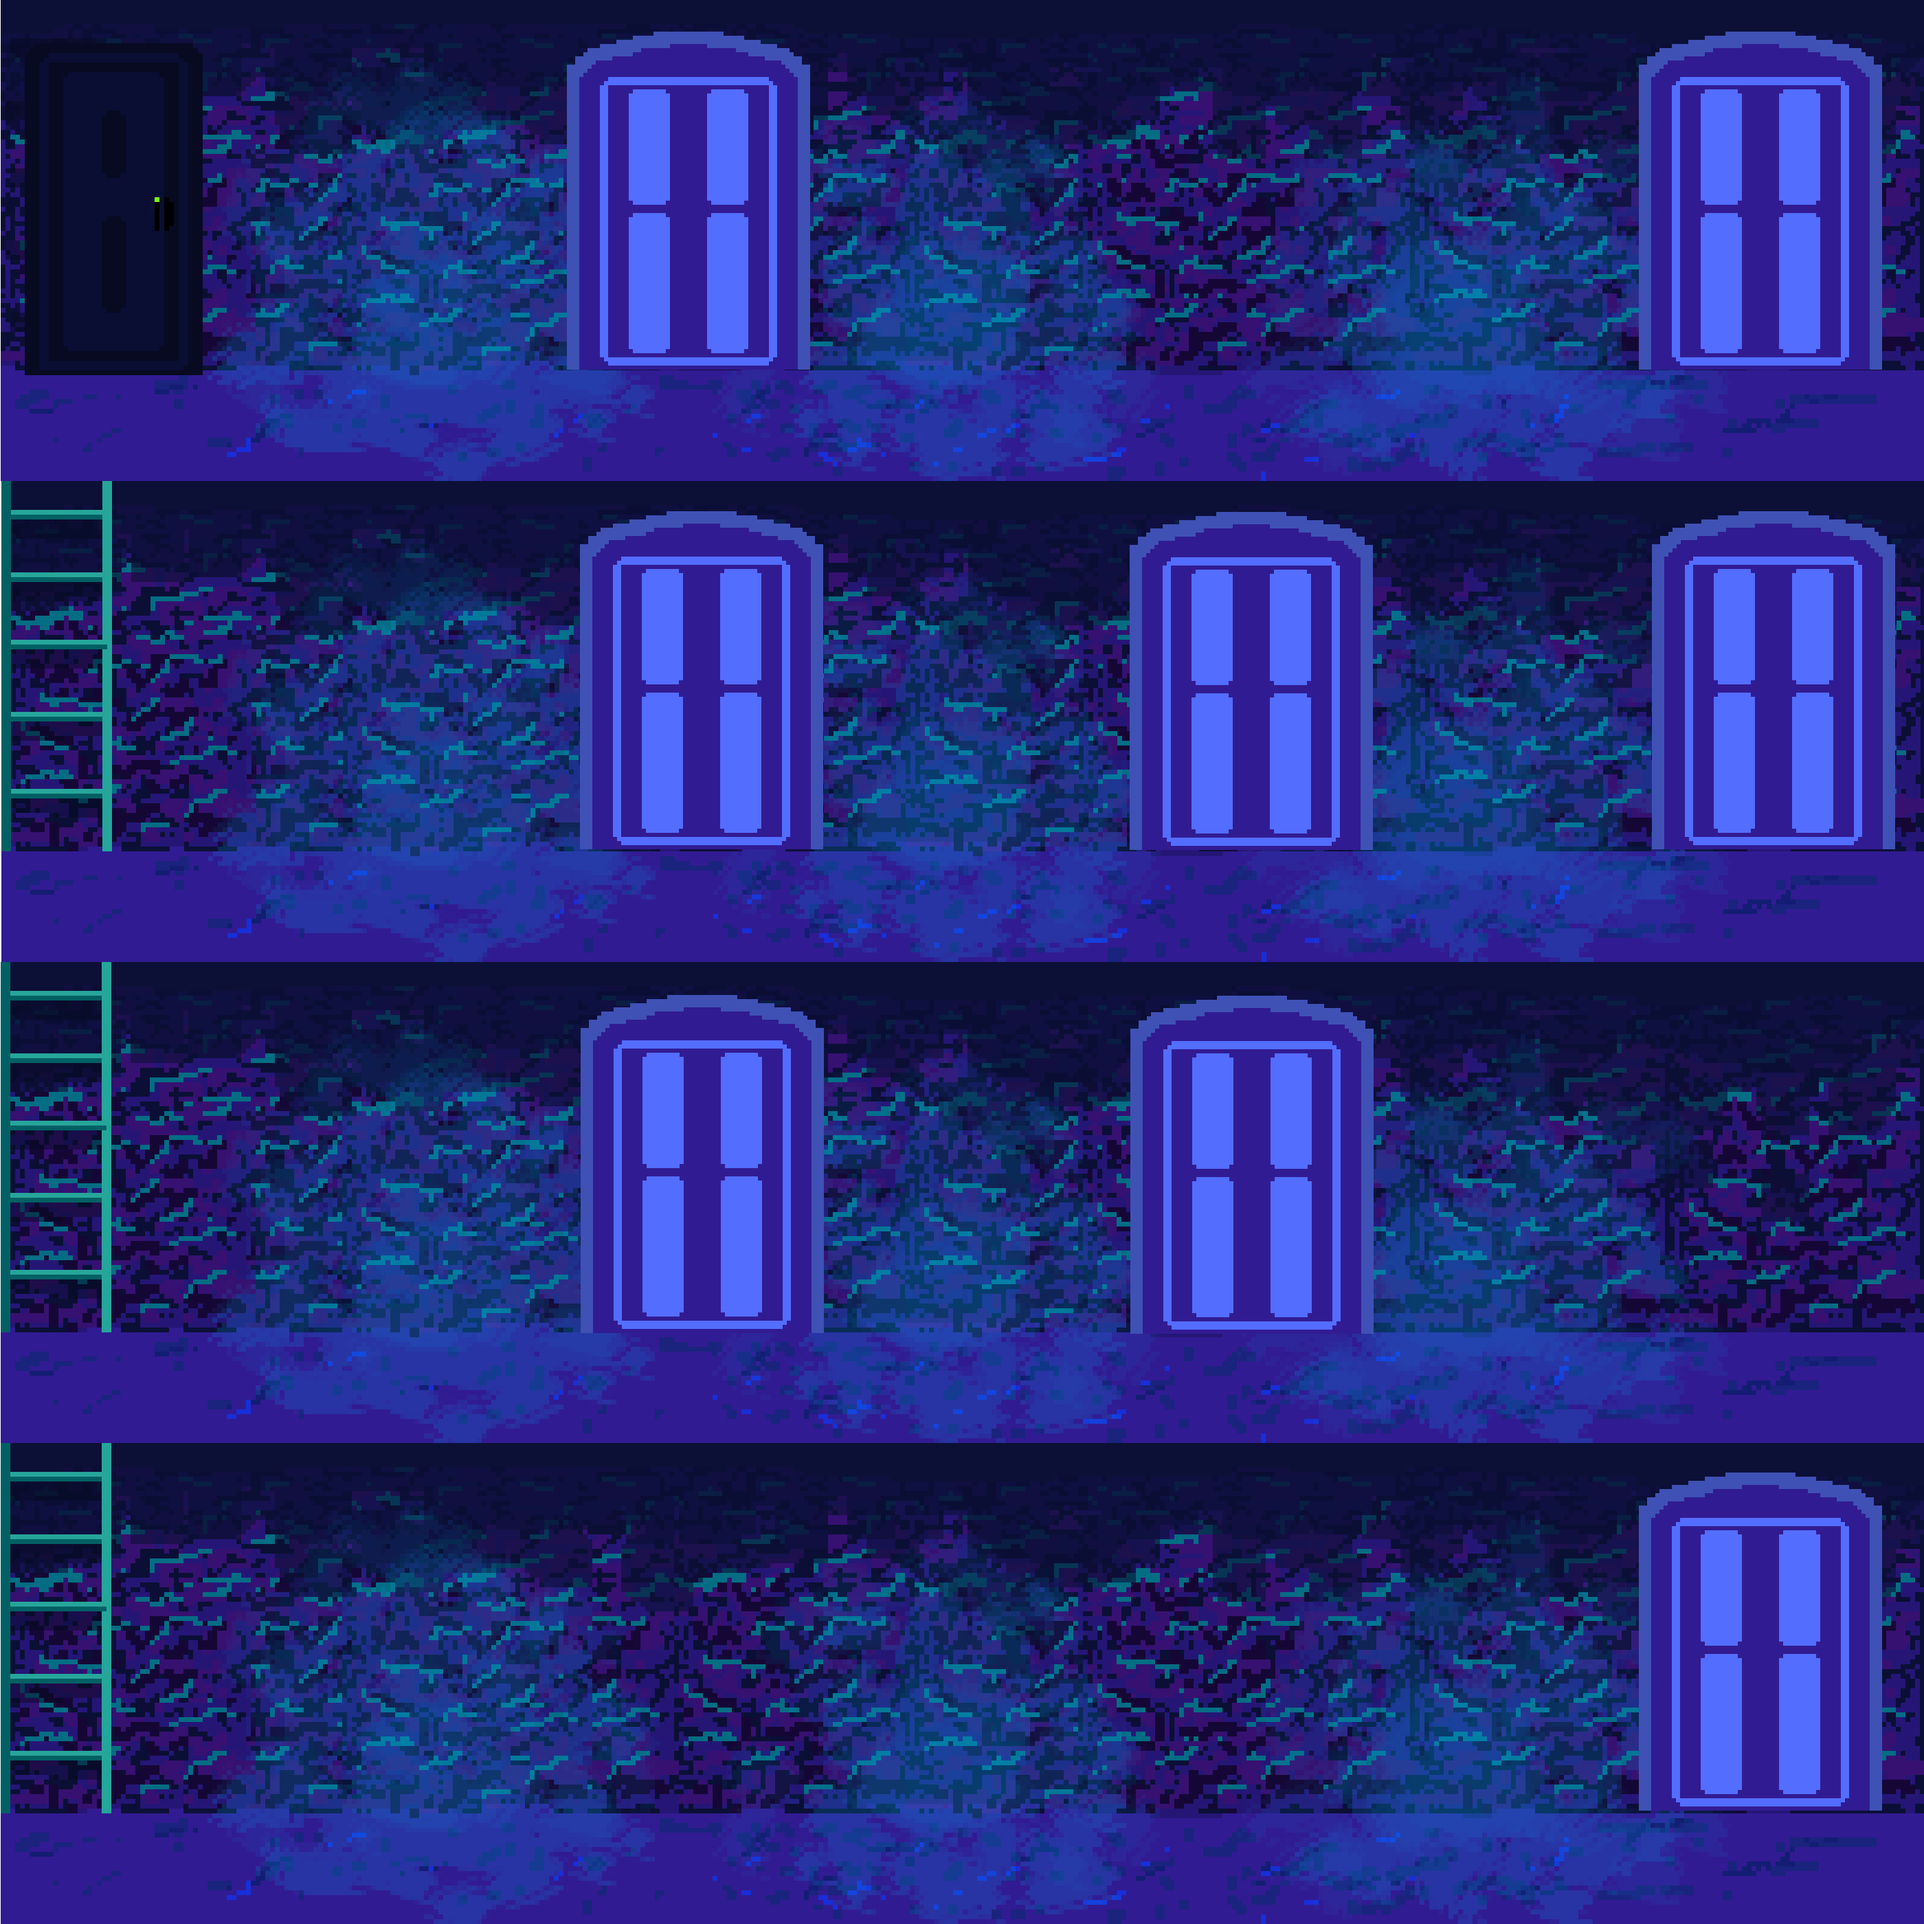
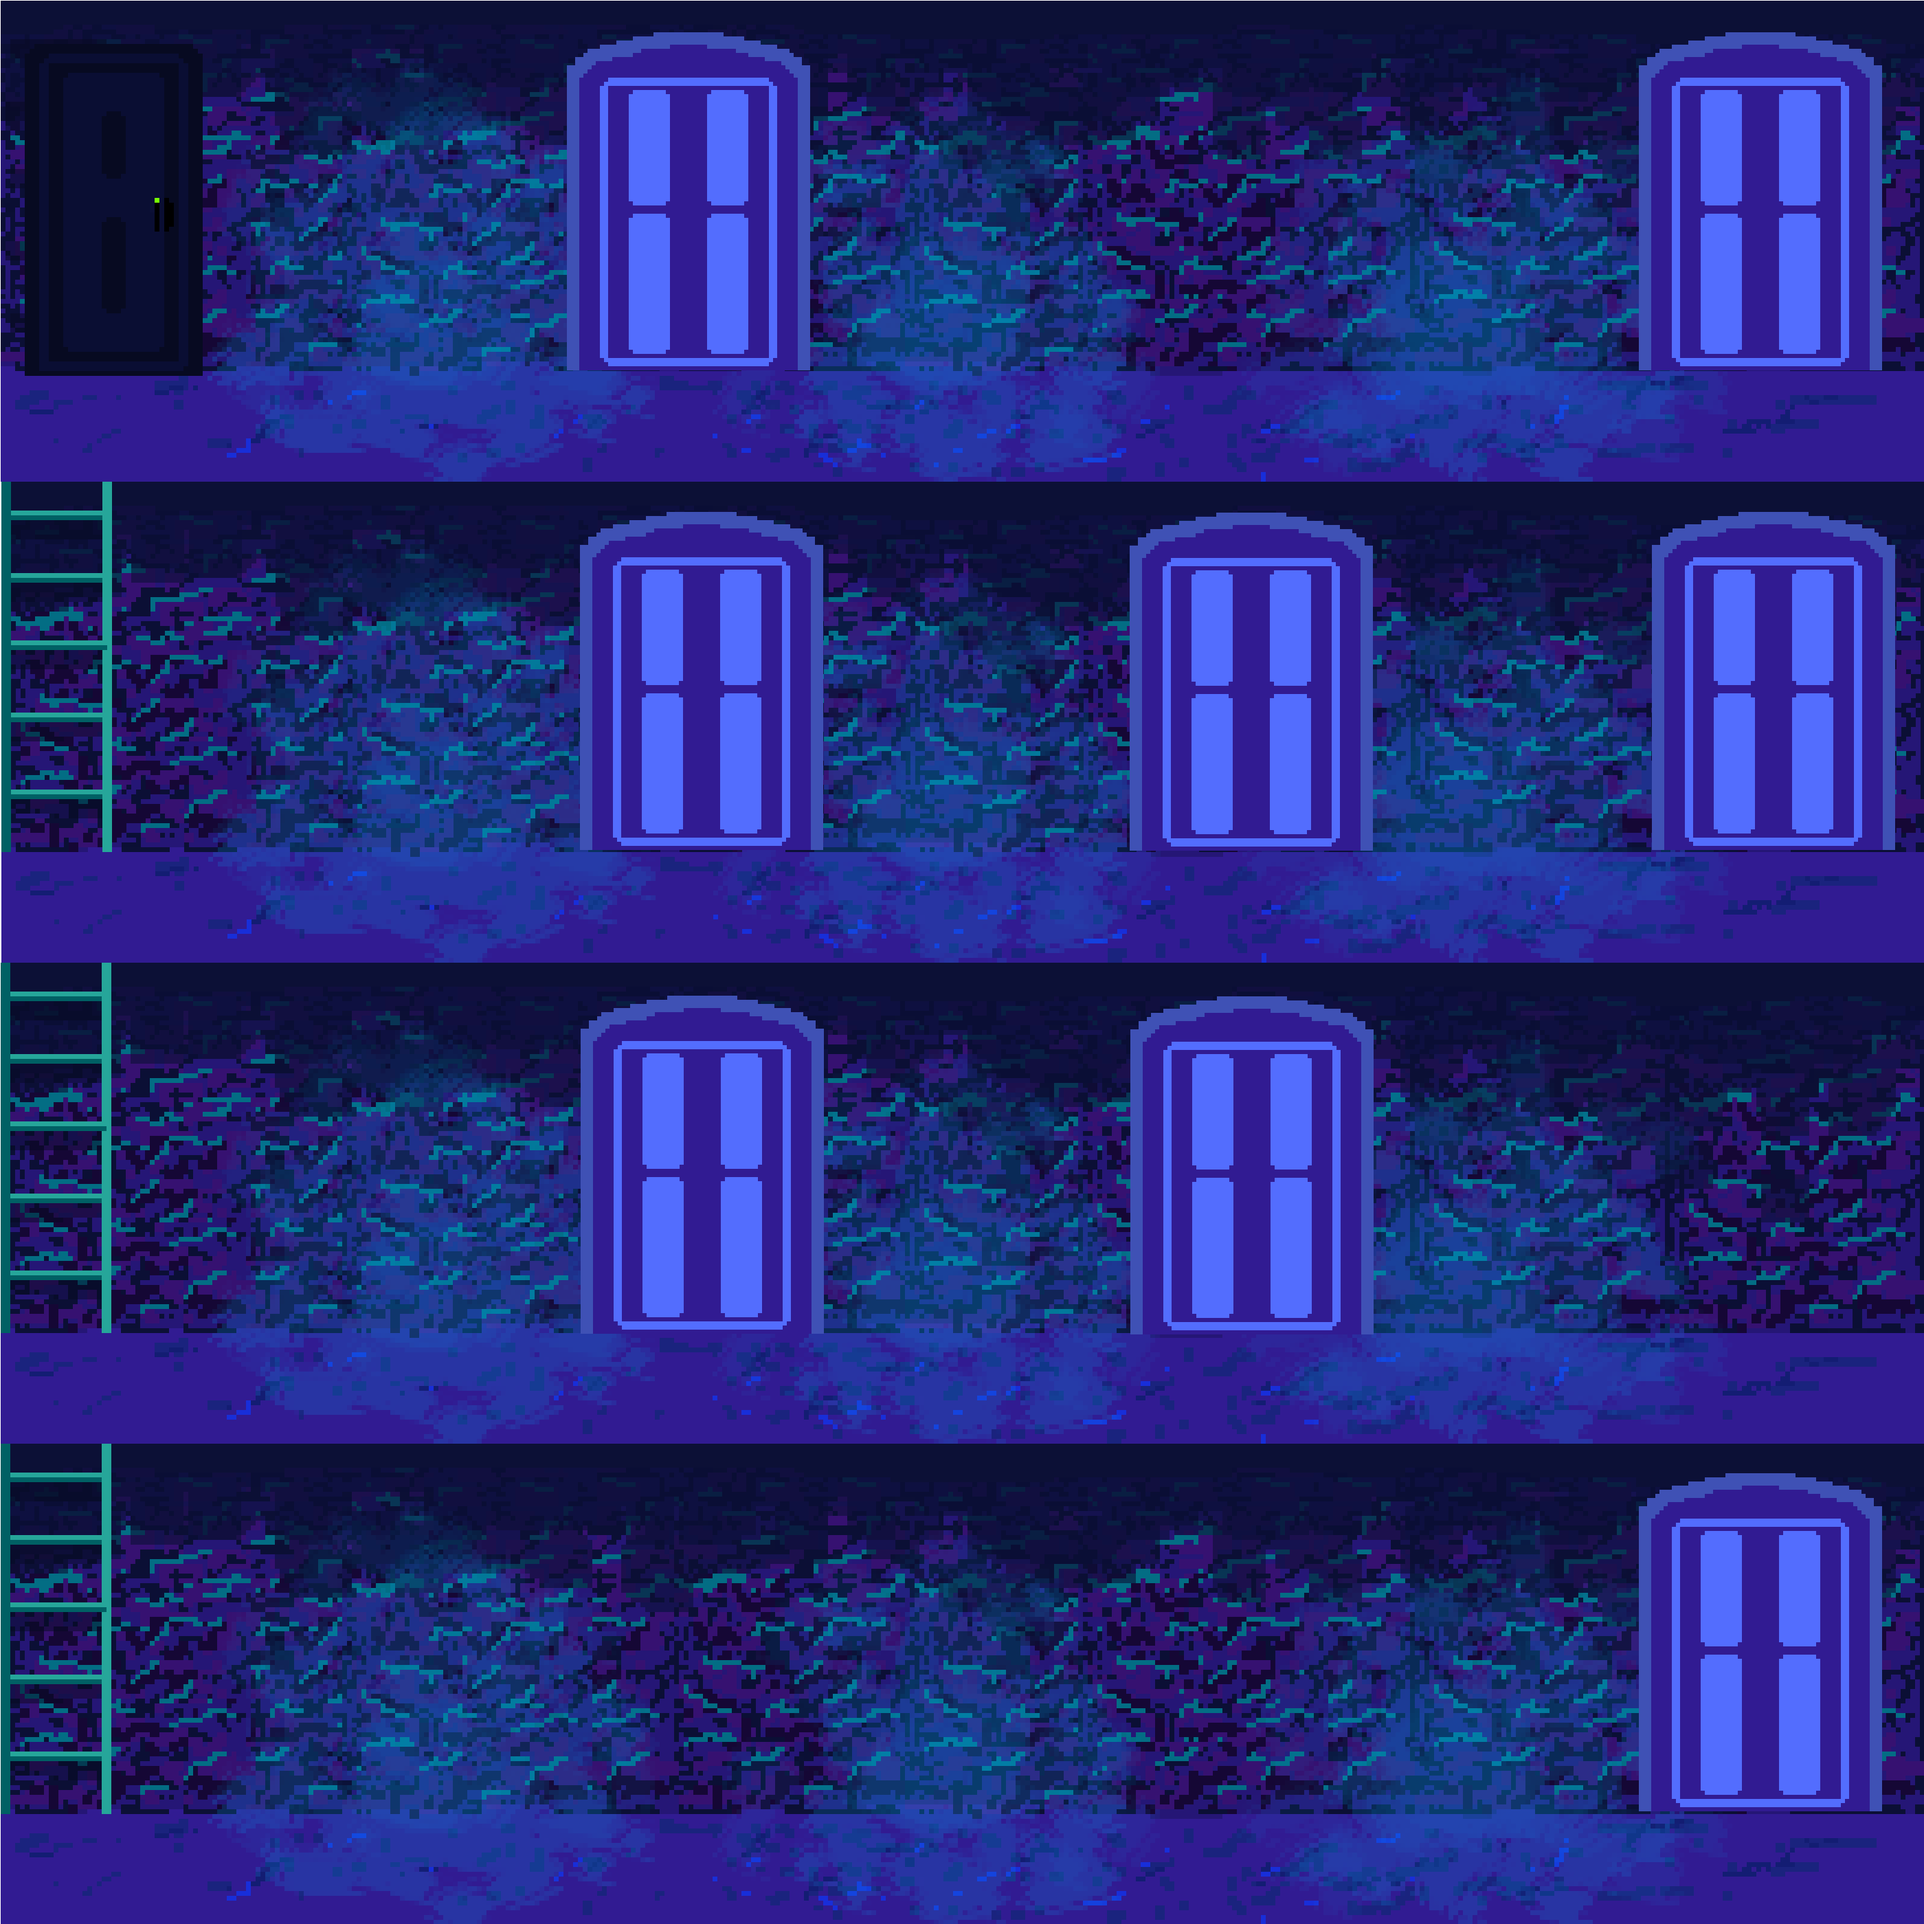
Adds corridor_mask and corridor movement

diff --git a/ESCAPE/sprites/hero_sprite.py b/ESCAPE/sprites/hero_sprite.py
@@ -1,33 +1,56 @@
 import pygame
-
 from ESCAPE.core.base_sprite import BaseSprite
 
 
 class HeroSprite(BaseSprite):
-    def __init__(self, game, x, y, size=None, angle=0):
+    def __init__(self, game, x, y, size=None):
         images = ['images/hero.png']
         # TODO numerous pictures of a hero and a standalone directory
-        # TODO handel events
-        super().__init__(game, images, x, y, size, angle=90)
+        # TODO handle events
+
+        super().__init__(game, images, x, y, size)
+        self.rect = self.image.get_rect()
+        self.mask = pygame.mask.from_surface(self.image)
+        self.rect.x = x
+        self.rect.y = y
+        self.pos = (x, y)
+        self.last_move = None
+        self.step = 10
         self.add(game.hero_group)
         self.anim_fps = 10
-        self.pos = (x, y)
+        pygame.key.set_repeat(10)
 
     def get_event(self, event):
-        step = 10
+        step = self.step
         if event.type == pygame.KEYDOWN:
             x, y = self.rect.x, self.rect.y
             new_x, new_y = x, y
             if event.key == pygame.K_RIGHT:
                 new_x, new_y = x + step, y
+                self.last_move = 'right'
             if event.key == pygame.K_LEFT:
                 new_x, new_y = x - step, y
+                self.last_move = 'left'
             if event.key == pygame.K_UP:
                 new_x, new_y = x, y - step
+                self.last_move = 'up'
             if event.key == pygame.K_DOWN:
                 new_x, new_y = x, y + step
-            if 650 < new_x and 150 < y < 300:
-                self.game.stop()
-            if self.game.screen_img.check(new_x + 80, new_y + 50):
-                self.rect.x, self.rect.y = new_x, new_y
-                self.pos = (new_x, new_y)
+                self.last_move = 'down'
+            self.rect.x, self.rect.y = new_x, new_y
+            self.pos = (new_x, new_y)
+
+    def anti_move(self):
+        step = self.step
+        x, y = self.rect.x, self.rect.y
+        new_x, new_y = x, y
+        if self.last_move == 'right':
+            new_x, new_y = x - step, y
+        if self.last_move == 'left':
+            new_x, new_y = x + step, y
+        if self.last_move == 'up':
+            new_x, new_y = x, y + step
+        if self.last_move == 'down':
+            new_x, new_y = x, y - step
+        self.rect.x, self.rect.y = new_x, new_y
+        self.pos = (new_x, new_y)

diff --git a/ESCAPE/sprites/corridor_sprite.py b/ESCAPE/sprites/corridor_sprite.py
@@ -1,4 +1,6 @@
+import pygame
 from ESCAPE.core.base_sprite import BaseSprite
+from ESCAPE.core.utils import load_image
 
 
 class CorridorSprite(BaseSprite):
@@ -7,6 +9,11 @@ class CorridorSprite(BaseSprite):
                   'images/corridor/corridor_2.png',
                   'images/corridor/corridor_3.png',
                   'images/corridor/corridor_2.png']
+
+        self.image = load_image('images/corridor/corridor_mask.png')
+        self.rect = self.image.get_rect()
+        self.mask = pygame.mask.from_surface(self.image)
+        self.rect.bottom = 2800
 
         super().__init__(game, images, x, y, size, angle)
         self.add(game.corridor_group)

diff --git a/ESCAPE/game_states/corridor.py b/ESCAPE/game_states/corridor.py
@@ -2,7 +2,6 @@ import pygame
 
 from ESCAPE.core.base_game_state import BaseGameStates
 from ESCAPE.sprites.corridor_sprite import CorridorSprite
-from ESCAPE.sprites.crystal_sprite import CrystalSprite
 from ESCAPE.sprites.hero_sprite import HeroSprite
 
 
@@ -31,3 +30,5 @@ class Corridor(BaseGameStates):
     def handle_event(self, event):
         super().handle_event(event)
         self.hero.get_event(event)
+        if pygame.sprite.collide_mask(self.hero, self.corridor):
+            self.hero.anti_move()
